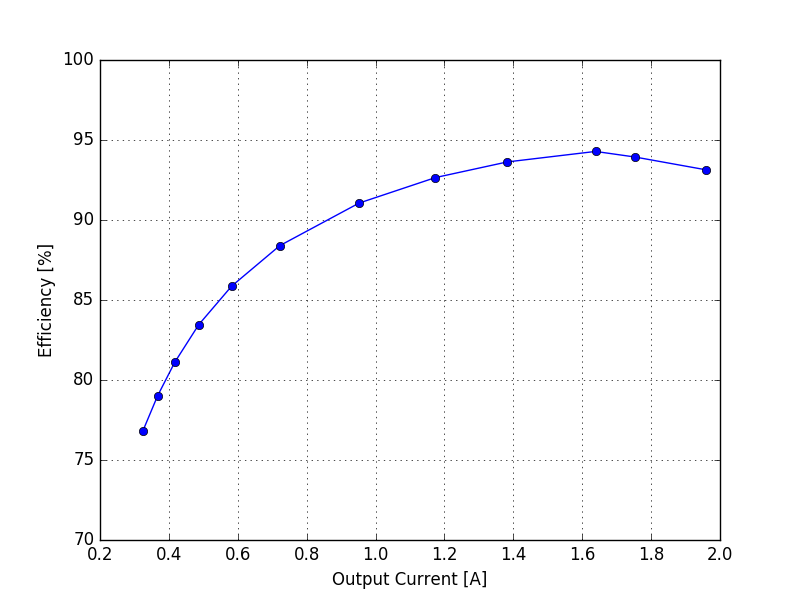
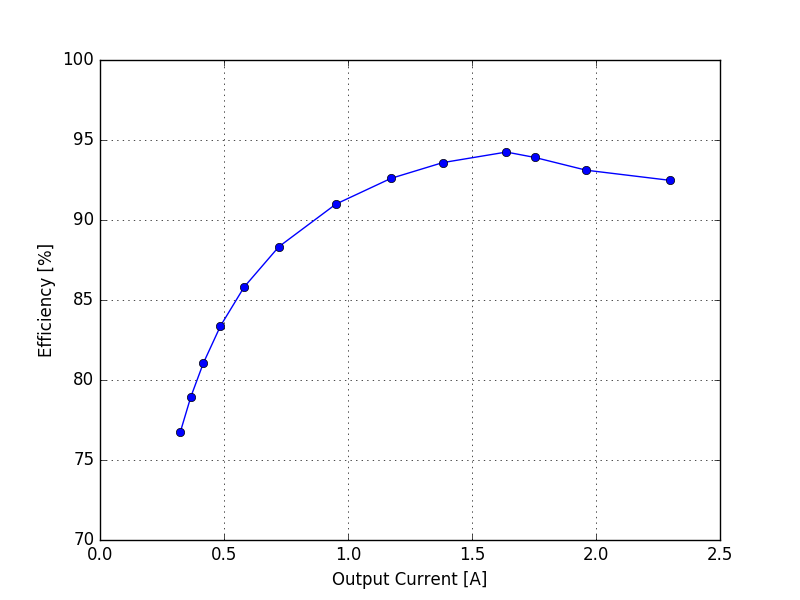
added more soft switching data

diff --git a/gpib_measurement/dickson/data/plot_efficiency_vs_inductor.m b/gpib_measurement/dickson/data/plot_efficiency_vs_inductor.m
@@ -2,8 +2,8 @@ clear
 close all
 clc
 scale = 2;
-set_figure_style_pre();
-plot_type = 'loss';
+set_figure_style_pre(2);
+plot_type = 'efficiency';
 
 legend_info = {};
 Marker = {'^-','o-','x-','s-','-+','.-'};
@@ -11,7 +11,9 @@ Marker = {'^-','o-','x-','s-','-+','.-'};
 inductor = '1000n';
 to_plot = { 90 80 250 20 '_diode80_deadtime'; ...
             90 80 500 20 '_diode80_deadtime'; ...
-            130 55 500 20 '_diode80_deadtime'; ...
+            90 80 700 20 '_diode80_deadtime'; ...            
+            130 55 250 20 '_diode90_deadtime'; ...             
+            130 55 500 20 '_diode90_deadtime'; ...       
             };
 
 %     x_axis = 'iout';

diff --git a/gpib_measurement/dickson/SC_efficiency_6030a_yokogawa.py b/gpib_measurement/dickson/SC_efficiency_6030a_yokogawa.py
@@ -35,7 +35,7 @@ meter_Out = prologix_wt310(prologix=gpib, addr=1, debug=False)
 # =========================================================================/
 power_supply.setCurrent(1.1)
 power_supply.setVoltage(0)
-setVoltage(power_supply,130,5)
+setVoltage(power_supply,90,5)
 
 # eload.setMode("CURR")
 # eload.setSlew(10)
